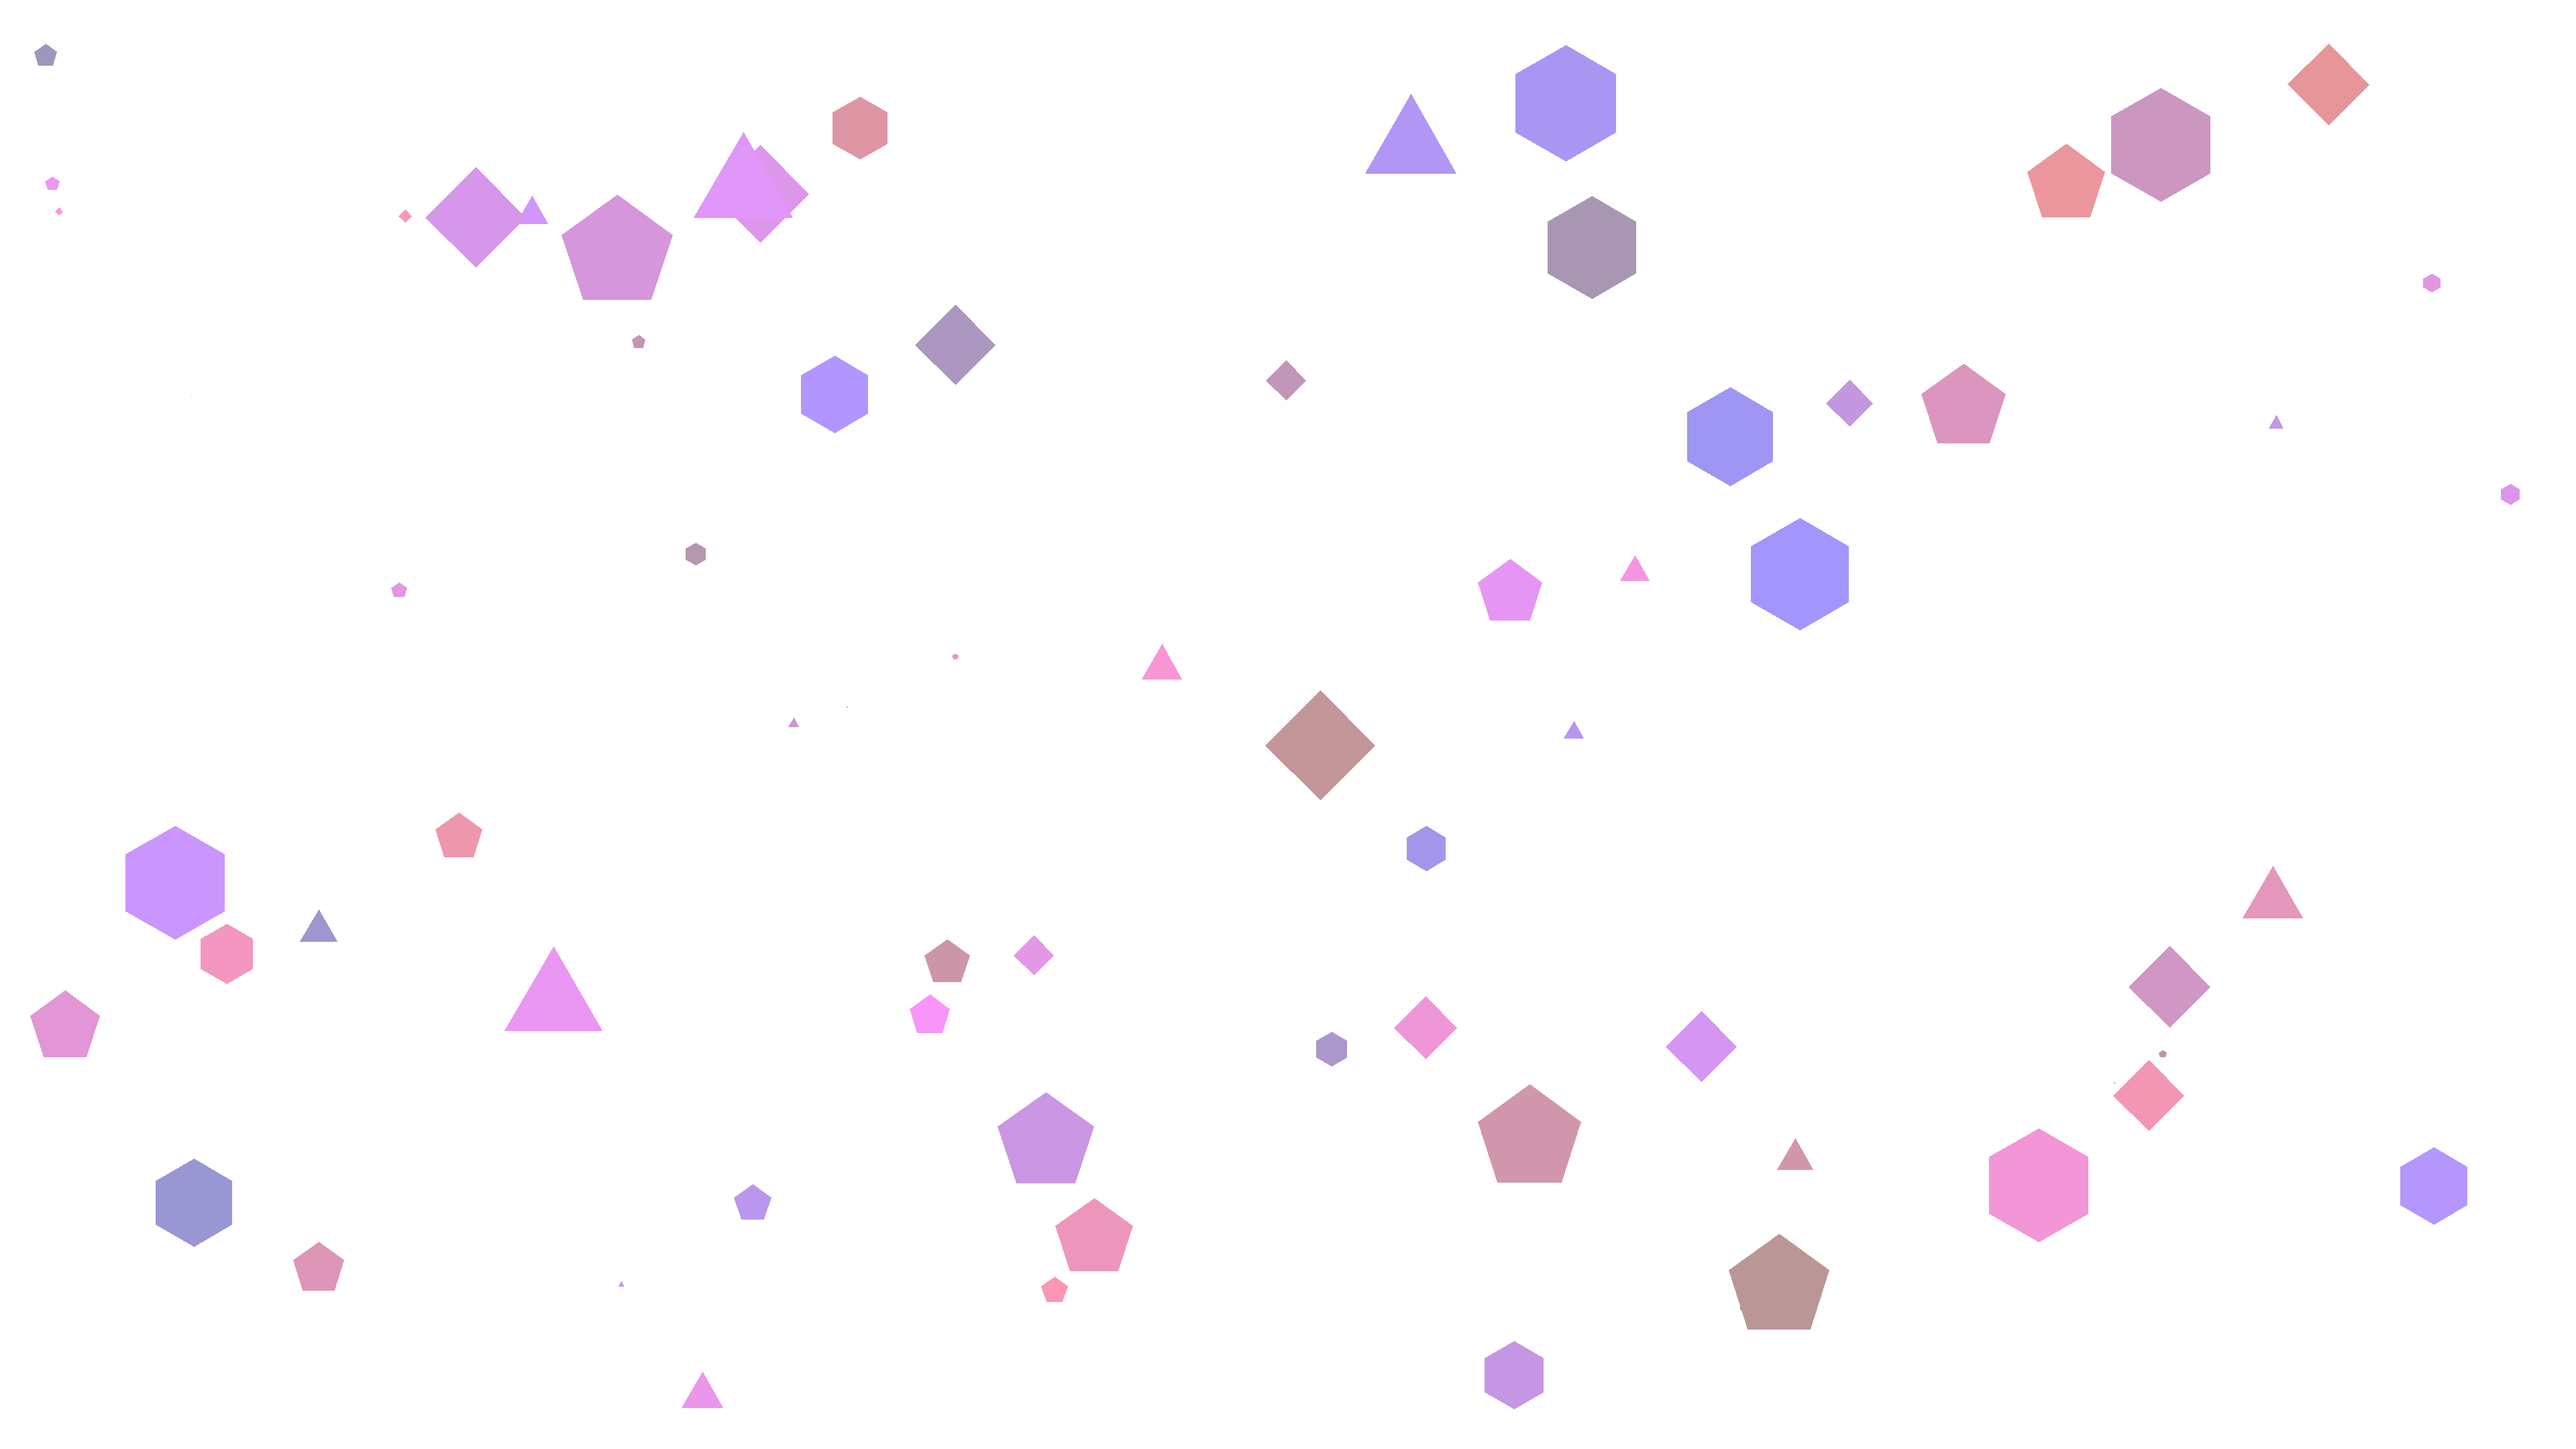
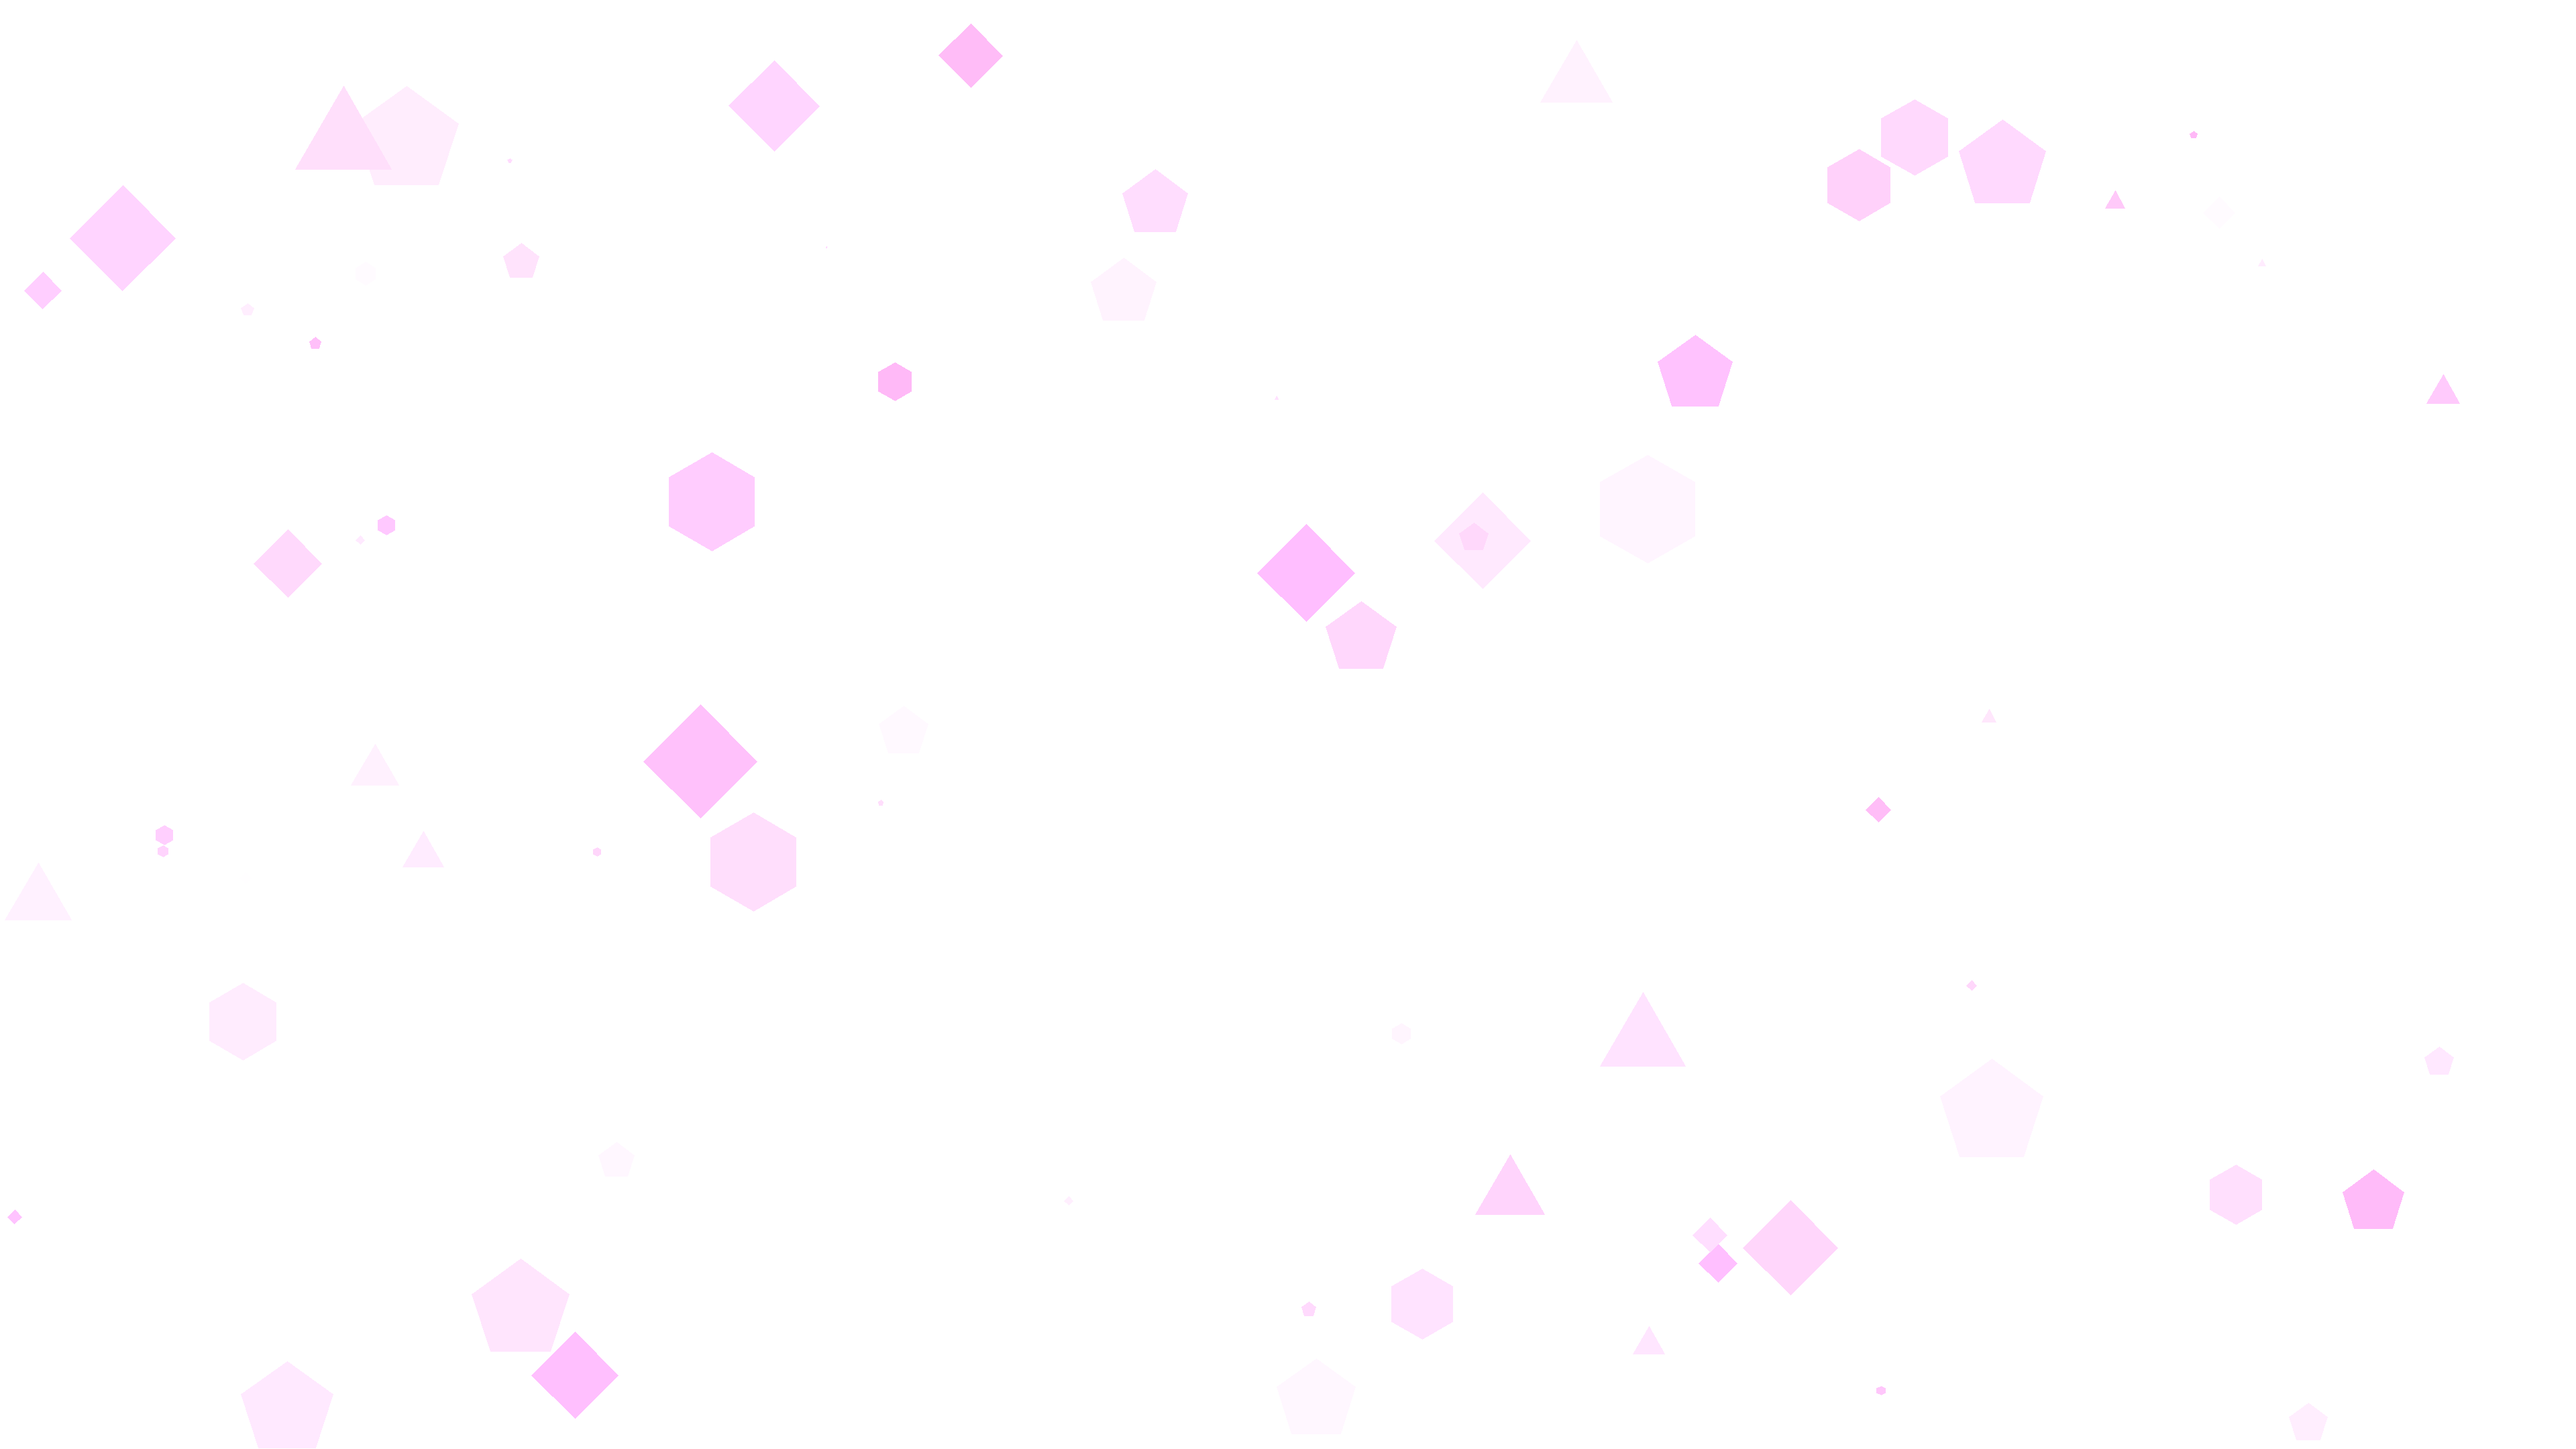
change background style

diff --git a/assets/images/generaterandomshapes.py b/assets/images/generaterandomshapes.py
@@ -2,43 +2,59 @@ from PIL import Image,ImageDraw
 import math
 import random
 size = (1920*2,1080*2)
-scale = 1
-shapes = 100
+scale = 3
+shapes = 50
 pointrange = (3,6)
 rotationrange = (180,180)
+opacityrange = (0,255)
+brightnessrange = (0,10)
+redrange = (255,255)
+greenrange = (179,179)
+bluerange = (246,246)
 im = Image.new('RGBA', size)
 
 draw = ImageDraw.Draw(im)
 
 for x in range(shapes):
-    color = (random.randint(150,255),random.randint(150,150),random.randint(150,255))
-    center= (random.randint(1,size[0]),random.randint(1,size[1]))
-    angle = random.randint(rotationrange[0],rotationrange[1])
-    scalerand = random.randint(0,1000)
-    points = random.randint(pointrange[0],pointrange[1])
-    pointlist = []
-    isoutofbounds=False
-    for y in range(points):
-        pointx=center[0]+math.sin(math.radians(angle+360/points*y))*scalerand*scale*size[1]/50000
-        pointy=center[1]+math.sin(math.radians(angle+90+360/points*y))*scalerand*scale*size[1]/50000
-
-        if pointx < size[0]:
-            if pointx < 0:
-                isoutofbounds=True
-                break
-        else:
-            isoutofbounds=True
-            break
-        if pointy < size[1]:
-            if pointy < 0:
-                isoutofbounds=True
-                break
-        else:
-            isoutofbounds=True
-            break
-        pointlist.append((pointx,pointy))
-    if isoutofbounds != True:
-        draw.polygon(pointlist, fill = color)
+	brightness = random.randint(brightnessrange[0],brightnessrange[1])
+	color = (random.randint(redrange[0],redrange[1])+brightness,random.randint(greenrange[0],greenrange[1])+brightness,random.randint(bluerange[0],bluerange[1])+brightness,random.randint(opacityrange[0],opacityrange[1]))
+	r = color[0]
+	g = color[1]
+	b = color[2]
+	a = color[3]
+	if r > 255:
+		r = 255
+	if g > 255:
+		g = 255
+	if b > 255:
+		b = 255
+	color = (r,g,b,a)
+	center= (random.randint(1,size[0]),random.randint(1,size[1]))
+	angle = random.randint(rotationrange[0],rotationrange[1])
+	scalerand = random.randint(0,1000)
+	points = random.randint(pointrange[0],pointrange[1])
+	pointlist = []
+	isoutofbounds=False
+	for y in range(points):
+		pointx=center[0]+math.sin(math.radians(angle+360/points*y))*scalerand*scale*size[1]/50000
+		pointy=center[1]+math.sin(math.radians(angle+90+360/points*y))*scalerand*scale*size[1]/50000
+		if pointx < size[0]:
+			if pointx < 0:
+				isoutofbounds=True
+				break
+		else:
+			isoutofbounds=True
+			break
+		if pointy < size[1]:
+			if pointy < 0:
+				isoutofbounds=True
+				break
+		else:
+			isoutofbounds=True
+			break
+		pointlist.append((pointx,pointy))
+	if isoutofbounds != True:
+		draw.polygon(pointlist, fill = color)
 
 
 im.save("output.png")
